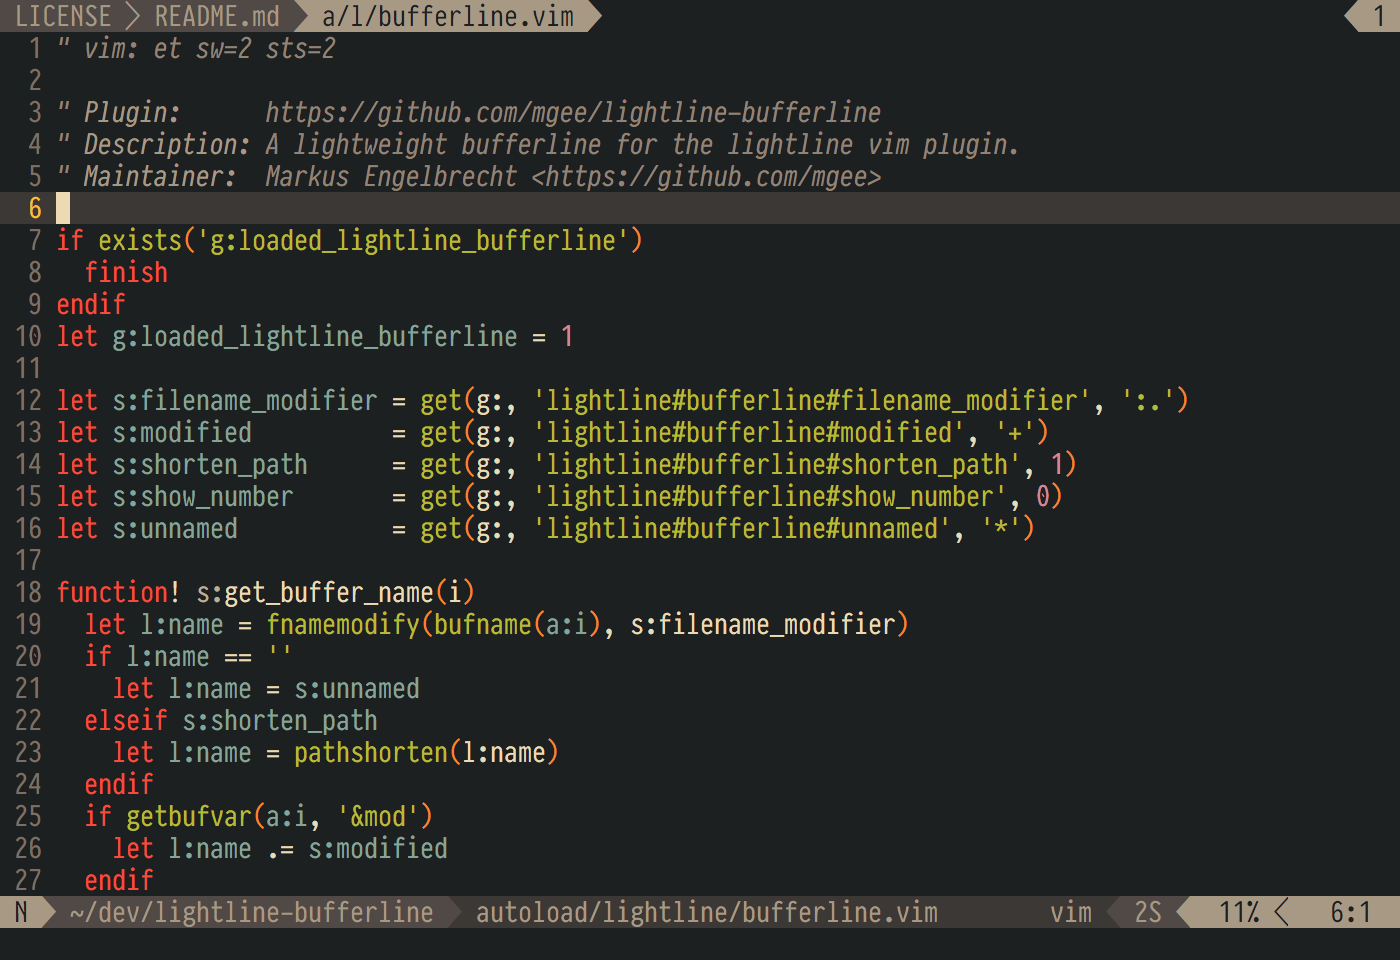
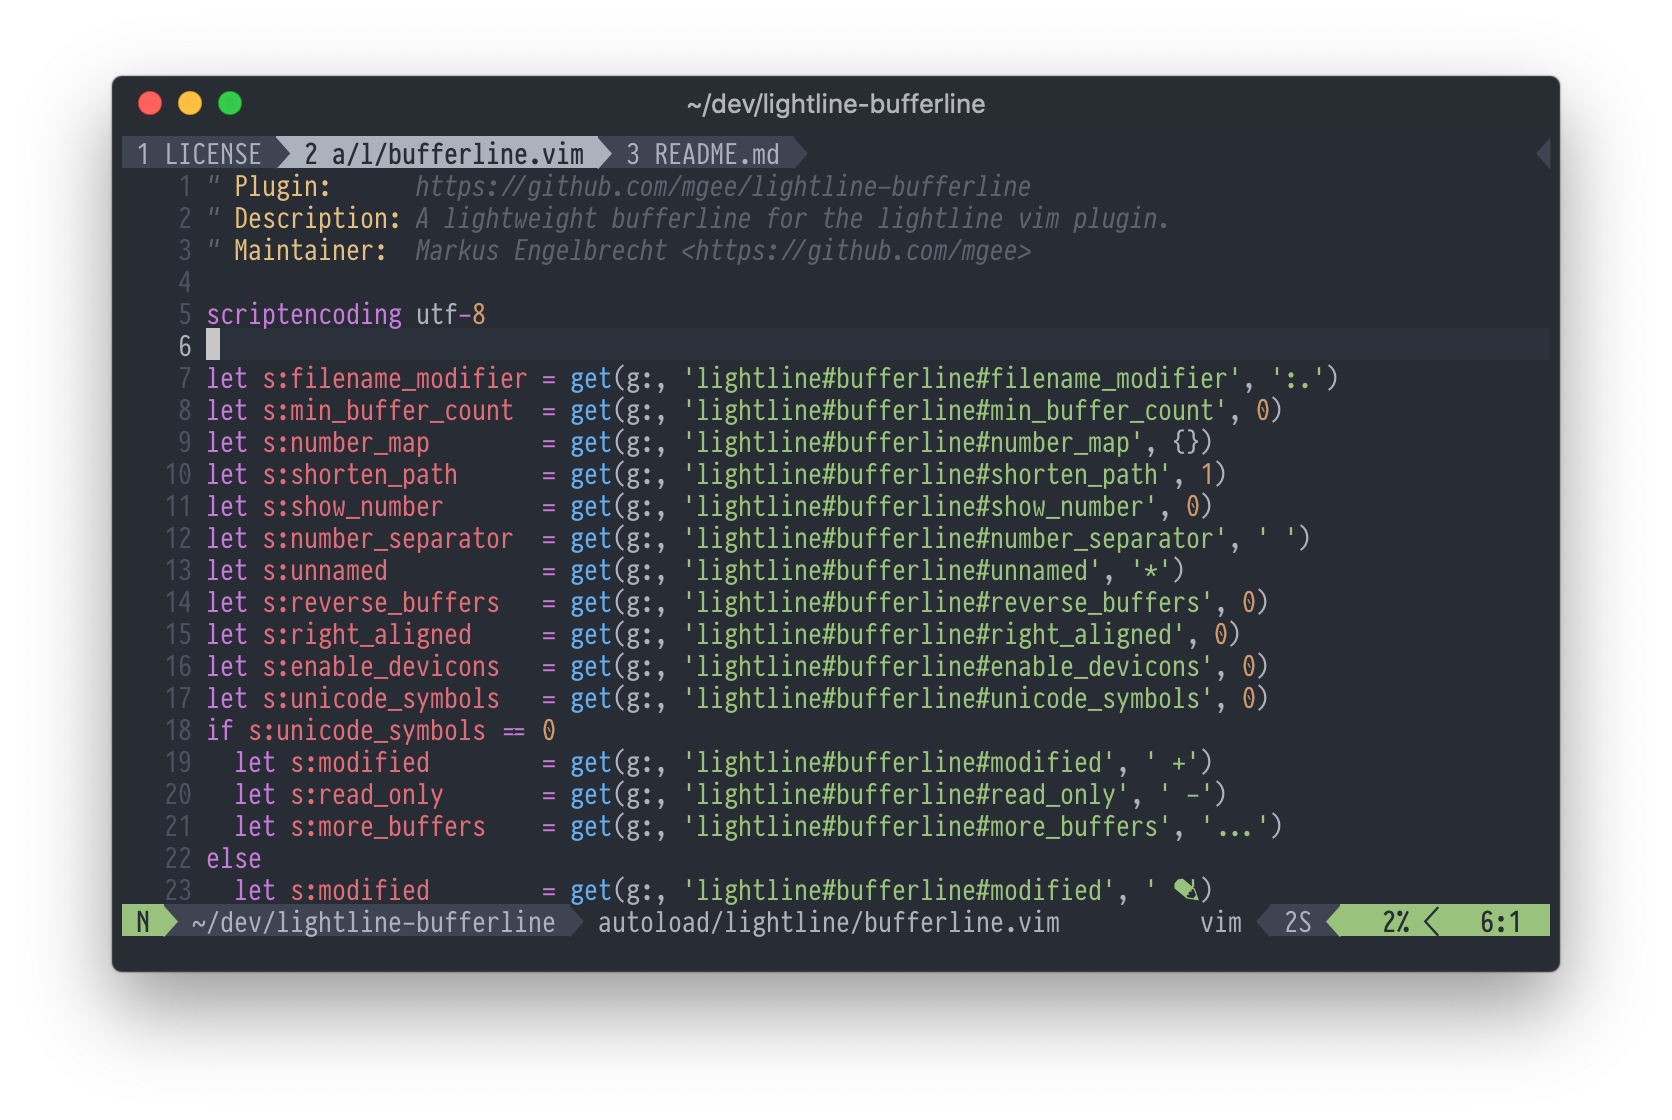
Update screenshot

diff --git a/README.md b/README.md
@@ -2,7 +2,7 @@
 
 This plugin provides bufferline functionality for the [lightline](https://github.com/itchyny/lightline.vim) vim plugin.
 
-![](bufferline.png)
+<p align="center"><img src="bufferline.png" width="836" height="560"></p>
 
 ## Table Of Contents
 
